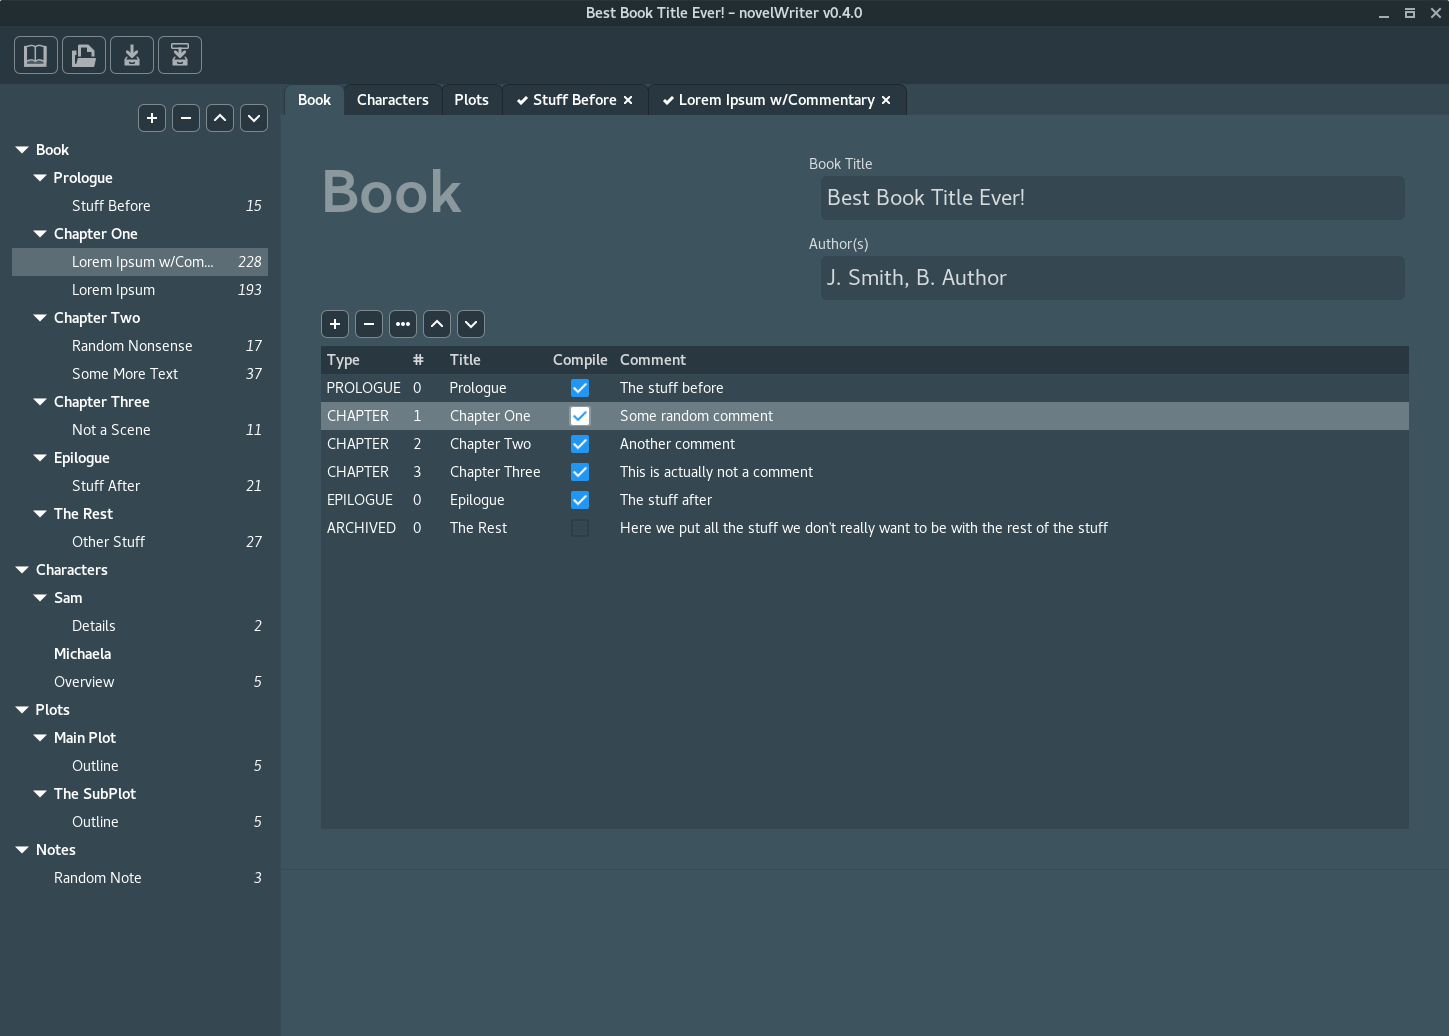
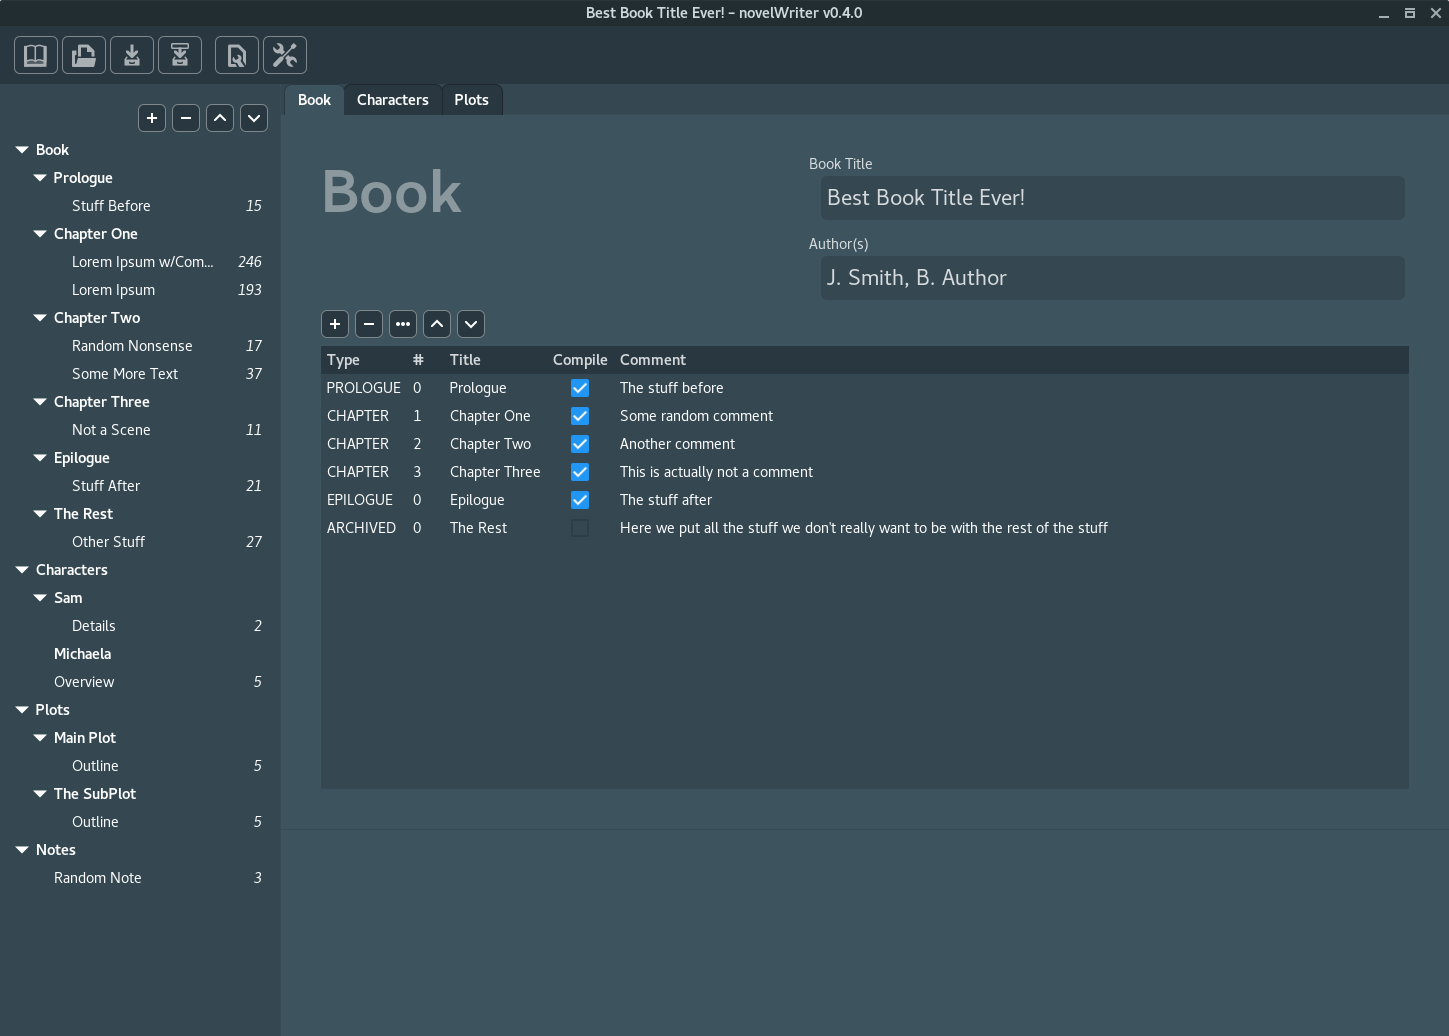
Added some more buttons and updated screenshots

diff --git a/nw/gui/winmain.py b/nw/gui/winmain.py
@@ -71,18 +71,25 @@ class GuiWinMain(Gtk.ApplicationWindow):
         self.tbMain.set_margin_bottom(8)
         self.tbMain.set_margin_left(12)
         self.tbMain.set_margin_right(12)
-        self.btnMainNew    = Gtk.ToolButton(icon_name="accessories-dictionary-symbolic")
-        self.btnMainOpen   = Gtk.ToolButton(icon_name="document-open-symbolic")
-        self.btnMainSave   = Gtk.ToolButton(icon_name="document-save-symbolic")
-        self.btnMainSaveAs = Gtk.ToolButton(icon_name="document-save-as-symbolic")
+        self.btnMainNew       = Gtk.ToolButton(icon_name="accessories-dictionary-symbolic")
+        self.btnMainOpen      = Gtk.ToolButton(icon_name="document-open-symbolic")
+        self.btnMainSave      = Gtk.ToolButton(icon_name="document-save-symbolic")
+        self.btnMainSaveAs    = Gtk.ToolButton(icon_name="document-save-as-symbolic")
+        self.btnMainProjPrefs = Gtk.ToolButton(icon_name="document-properties-symbolic")
+        self.btnMainProgPrefs = Gtk.ToolButton(icon_name="preferences-system-symbolic")
         self.btnMainNew.set_tooltip_text("New Book Project")
         self.btnMainOpen.set_tooltip_text("Open Book Project")
         self.btnMainSave.set_tooltip_text("Save Book Project")
         self.btnMainSaveAs.set_tooltip_text("Save Book Project As")
+        self.btnMainProjPrefs.set_tooltip_text("Project Preferences")
+        self.btnMainProgPrefs.set_tooltip_text("novelWriter Preferences")
         self.tbMain.insert(self.btnMainNew,0)
         self.tbMain.insert(self.btnMainOpen,1)
         self.tbMain.insert(self.btnMainSave,2)
         self.tbMain.insert(self.btnMainSaveAs,3)
+        self.tbMain.insert(Gtk.SeparatorToolItem(),4)
+        self.tbMain.insert(self.btnMainProjPrefs,5)
+        self.tbMain.insert(self.btnMainProgPrefs,6)
         self.boxTop.pack_start(self.tbMain,False,True,0)
         
         # Pane for TreeView and Main Content
@@ -240,7 +247,7 @@ class GuiWinMain(Gtk.ApplicationWindow):
         tabBox.set_spacing(2)
         tabLabel = Gtk.Label(treeEntry["entry"].itemName)
         tabIcon = Gtk.Image()
-        tabIcon.set_from_icon_name("emblem-ok-symbolic",Gtk.IconSize.MENU)
+        tabIcon.set_from_icon_name("emblem-default-symbolic",Gtk.IconSize.MENU)
         tabImage = Gtk.Image()
         tabImage.set_from_icon_name("window-close-symbolic",Gtk.IconSize.MENU)
         tabButton = Gtk.Button()

diff --git a/nw/gui/pane_editor.py b/nw/gui/pane_editor.py
@@ -115,7 +115,7 @@ class GuiEditor(Gtk.Paned):
         docItem.saveFile()
         
         tabIcon = self.get_parent().get_tab_label(self).get_children()[0]
-        tabIcon.set_from_icon_name("emblem-ok-symbolic",Gtk.IconSize.MENU)
+        tabIcon.set_from_icon_name("emblem-default-symbolic",Gtk.IconSize.MENU)
         
         tabLabel = self.get_parent().get_tab_label(self).get_children()[1]
         tabLabel.set_text(docTitle)
